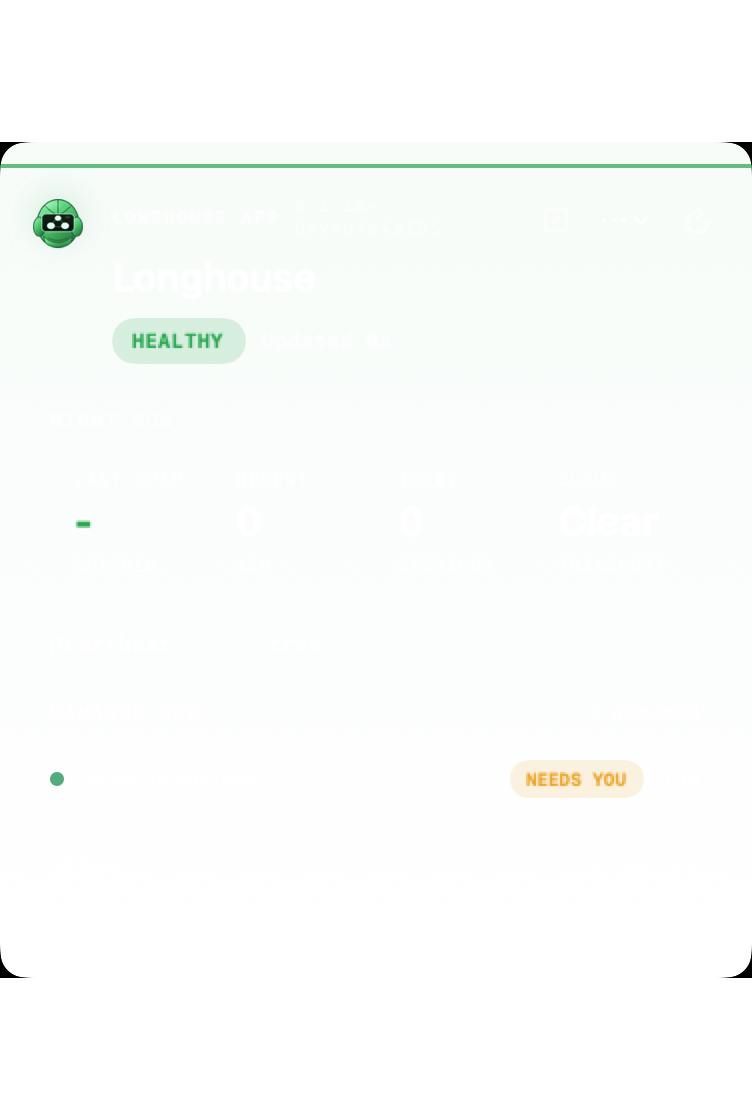
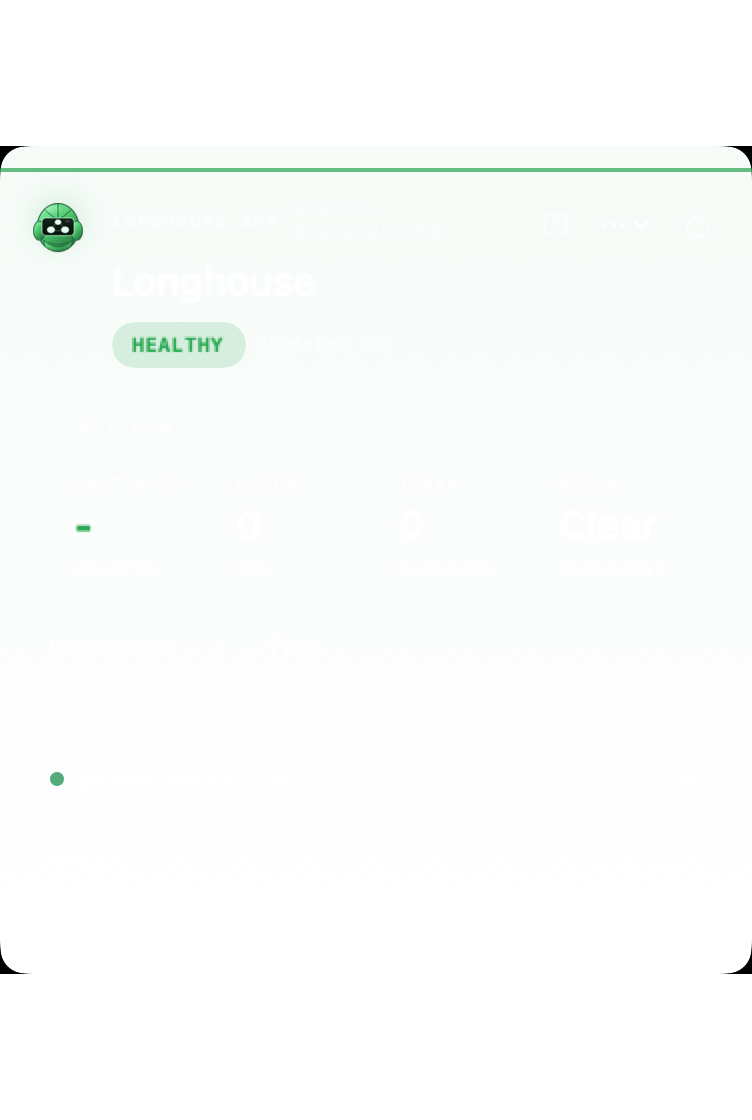
Render managed needs-user as ready

diff --git a/desktop/LonghouseMenuBarHarness/Sources/LonghouseMenuBarCore/ManagedPhaseContract.generated.swift b/desktop/LonghouseMenuBarHarness/Sources/LonghouseMenuBarCore/ManagedPhaseContract.generated.swift
@@ -8,7 +8,7 @@ enum ManagedPhaseContract {
         "thinking": .working,
         "running": .working,
         "needs permission": .blocked,
-        "needs you": .needsYou,
+        "ready": .idle,
         "idle": .idle,
         "completed": .idle,
     ]

diff --git a/server/tests_lite/test_local_health_cli.py b/server/tests_lite/test_local_health_cli.py
@@ -2199,7 +2199,7 @@ def test_process_scan_humanizes_needs_user_phase(monkeypatch, tmp_path: Path):
     )
 
     assert len(rows) == 1
-    assert rows[0]["phase"] == "needs you"
+    assert rows[0]["phase"] == "ready"
     assert rows[0]["phase_observed_at"] == "2026-04-19T00:04:30Z"
     assert rows[0]["last_activity_at"] == "2026-04-19T00:04:30Z"
 